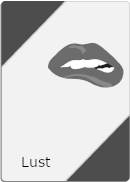
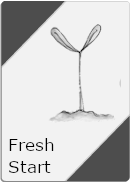
added fresh start, greed affected by DD

Changed region(s): [[0.3692, 0.1374, 0.9538, 0.6868], [0.0615, 0.8516, 0.4, 0.9615], [0.0615, 0.7418, 0.4308, 0.8516]]

diff --git a/Web/ClientApp/src/app/_components/help/help.component.html b/Web/ClientApp/src/app/_components/help/help.component.html
@@ -100,7 +100,7 @@
             <img src="/images/cards/small/5/1/16.png" class="mr-3" />
             <div class="media-body">
               <h5 class="mt-0 mb-1">Discard Wild Cards</h5>
-              At the cost of drawing one card every player will discard all wildcards from their hand.
+              At the cost of drawing one card (not affected by double draw or king's decree) every player will discard all wildcards from their hand.
             </div>
           </li>
           <li class="media my-2">
@@ -114,7 +114,7 @@
             <img src="/images/cards/small/5/1/20.png" class="mr-3" />
             <div class="media-body">
               <h5 class="mt-0 mb-1">Discard Color</h5>
-              At the cost of drawing one card user picks a color. The chosen color should be discarded from all player's current hand.
+              At the cost of drawing one card (not affected by double draw or king's decree) user picks a color . The chosen color should be discarded from all player's current hand.
             </div>
           </li>
           <li class="media my-2">
@@ -174,7 +174,7 @@
             <img src="/images/cards/small/5/1/36.png" class="mr-3" />
             <div class="media-body">
               <h5 class="mt-0 mb-1">Discard Number</h5>
-              At the cost of drawing one card player selects 2 numbers (from 0-9) every player will discard these numbers from their hand,
+              At the cost of drawing one card (not affected by double draw or king's decree) player selects 2 numbers (from 0-9) every player will discard these numbers from their hand,
               regardless the color.
             </div>
           </li>
@@ -243,7 +243,7 @@
             <img src="/images/cards/small/5/1/53.png" class="mr-3" />
             <div class="media-body">
               <h5 class="mt-0 mb-1">Queens's decree</h5>
-              As long as the owner’s number of cards in hand does not exceed 5, the person to the left and right must draw a card if they have a lesser hand on each turn of the owner. If the game
+              As long as the owner’s number of cards in hand does not exceed 5, the person to the left and right must draw one card (not affected by double draw or king's decree) if they have a lesser hand on each turn of the owner. If the game
               consists of 2 players then only the next player will draw a card. Acts as normal wild card if played. Draw is not affected by double draw card.
             </div>
           </li>
@@ -267,7 +267,7 @@
             <div class="media-body">
               <h5 class="mt-0 mb-1">Devil's deal</h5>
               When the card is played, player can choose to activate the effect or not. If yes, all players with only one card remaining (counted the card is played) must draw a card. The owner must
-              draw 2 cards in return, and this card will be moved back to their hand. Acts as normal wild card otherwise. Amount of cards are not affected by double draw.
+              draw 2 cards in return (not affected by double draw or king's decree), and this card will be moved back to their hand. Acts as normal wild card otherwise.
             </div>
           </li>
           <li class="media my-2">
@@ -390,7 +390,8 @@
             <img src="/images/cards/small/5/1/48.png" class="mr-3" />
             <div class="media-body">
               <h5 class="mt-0 mb-1">Silence</h5>
-              All wildcards have no effect for the next 4 moves. Playing another Silence in that interval will stack the effect (+4 turns). Passive wildcards like Last stand, Deflect and KeepMyHand don't work
+              All wildcards have no effect for the next 4 moves. Playing another Silence in that interval will stack the effect (+4 turns). Passive wildcards like Last stand, Deflect and KeepMyHand
+              don't work
               within this period. Effects from special cards also cannot be activated.
             </div>
           </li>
@@ -416,6 +417,14 @@
               <h5 class="mt-0 mb-1">Intervention</h5>
               Players with the least cards in hand (counter after the use), must skip their next turn (get handcuffed) and draw a card. Multiple Interventions can be stacked (one person will skip
               several turns if they have the least cards).
+            </div>
+          </li>
+          <li class="media my-2">
+            <img src="/images/cards/small/5/1/60.png" class="mr-3" />
+            <div class="media-body">
+              <h5 class="mt-0 mb-1">Fresh start</h5>
+              Player can choose to activate the special effect or not. If they activate the special effect of the card, they will discard their whole hand and draw 7 cards (like in the beginning of
+              the game). If they decides not to activate the special effect, he must draw 1 card (not affected by double draw or king's decree). Can be blocked by "keep my hand".
             </div>
           </li>
         </ul>

diff --git a/Web/ClientApp/src/app/_services/play-card.service.ts b/Web/ClientApp/src/app/_services/play-card.service.ts
@@ -137,6 +137,12 @@ export class PlayCardService {
             this._hubService.playCard(cardPlayed.id, pickedColor, null, null, null,null,0,null,null,null,activateEffect);
             return;
           });
+        }else if (cardPlayed.value === CardValue.freshStart) {
+          const specialEffectModal = this._modalService.displayActivateSpecialEffect();
+          specialEffectModal.result.then((activateEffect: boolean) => {
+            this._hubService.playCard(cardPlayed.id, pickedColor, null, null, null,null,0,null,null,null,activateEffect);
+            return;
+          });
         }else if (cardPlayed.value === CardValue.deathSentence) {
           this._modalService.displayActivateSpecialEffect().result.then((activateEffect: boolean) => {
             if(activateEffect){

diff --git a/Web/ClientApp/src/app/_components/change-log/change-log.component.html b/Web/ClientApp/src/app/_components/change-log/change-log.component.html
@@ -15,6 +15,9 @@
           <li>
             Robin hood reveals which cards have been taken.
           </li>
+          <li>
+            Added new card - Fresh start.
+          </li>
         </ul>
       </li>
       <li class="list-group-item">

diff --git a/Web/ClientApp/src/app/_models/enums.ts b/Web/ClientApp/src/app/_models/enums.ts
@@ -77,7 +77,8 @@ export enum CardValue {
   cyclone = 56,
   intervention = 57,
   badgeCollector = 58,
-  greed = 59
+  greed = 59,
+  freshStart = 60
 }
 
 export enum Direction {

diff --git a/GameProcessingService/CardEffectProcessors/AutomaticallyTriggered/Wild/QueensDecreeEffectProcessor.cs b/GameProcessingService/CardEffectProcessors/AutomaticallyTriggered/Wild/QueensDecreeEffectProcessor.cs
@@ -32,12 +32,7 @@ namespace GameProcessingService.CardEffectProcessors.AutomaticallyTriggered.Wild
                         {
                             messageToLog += $"{player.User.Name} auto activated queen's decree. ";
                             messageToLog += $"Next player ({nextPlayer.User.Name}) will draw a card. ";
-                            var kingsDecreeResult = BlockedByKingsDecree(messageToLog, nextPlayer, game);
-                            messageToLog = kingsDecreeResult.MessageToLog;
-                            if (!kingsDecreeResult.ActivatedKingsDecree)
-                            {
-                                _gameManager.DrawCard(game, nextPlayer, 1, false);
-                            }
+                            _gameManager.DrawCard(game, nextPlayer, 1, false);
                         }
                     }
                     else
@@ -51,23 +46,13 @@ namespace GameProcessingService.CardEffectProcessors.AutomaticallyTriggered.Wild
                             if (nextPlayer.Cards.Count < player.Cards.Count)
                             {
                                 messageToLog += $"Next player ({nextPlayer.User.Name}) will draw a card. ";
-                                var kingsDecreeResult = BlockedByKingsDecree(messageToLog, nextPlayer, game);
-                                messageToLog = kingsDecreeResult.MessageToLog;
-                                if (!kingsDecreeResult.ActivatedKingsDecree)
-                                {
-                                    _gameManager.DrawCard(game, nextPlayer, 1, false);
-                                }
+                                _gameManager.DrawCard(game, nextPlayer, 1, false);
                             }
 
                             if (previousPlayer.Cards.Count < player.Cards.Count)
                             {
                                 messageToLog += $"Previous player player ({previousPlayer.User.Name}) will draw a card. ";
-                                var kingsDecreeResult = BlockedByKingsDecree(messageToLog, previousPlayer, game);
-                                messageToLog = kingsDecreeResult.MessageToLog;
-                                if (!kingsDecreeResult.ActivatedKingsDecree)
-                                {
-                                    _gameManager.DrawCard(game, previousPlayer, 1, false);
-                                }
+                                _gameManager.DrawCard(game, previousPlayer, 1, false);
                             }
                         }
                     }
@@ -75,22 +60,6 @@ namespace GameProcessingService.CardEffectProcessors.AutomaticallyTriggered.Wild
             }
 
             return new AutomaticallyTriggeredResult() { MessageToLog = messageToLog };
-        }
-
-        private AutomaticallyTriggeredResult BlockedByKingsDecree(string messageToLog, Player player, Game game)
-        {
-            var activatedKingsDecree = false;
-
-            if (game.SilenceTurnsRemaining <= 0)
-            {
-                if (player.Cards.Count > 4 && player.Cards.FirstOrDefault(x => x.Value == CardValue.KingsDecree) != null)
-                {
-                    activatedKingsDecree = true;
-                    messageToLog += $"{player.User.Name} is not affected by the draw (king's decree).";
-                }
-            }
-
-            return new AutomaticallyTriggeredResult() { MessageToLog = messageToLog, ActivatedKingsDecree = activatedKingsDecree };
         }
     }
 }

diff --git a/GameProcessingService/CardEffectProcessors/Played/Wild/FreshStartEffectProcessor.cs b/GameProcessingService/CardEffectProcessors/Played/Wild/FreshStartEffectProcessor.cs
@@ -1,0 +1,55 @@
+using System.Collections.Generic;
+using System.Linq;
+using Common.Enums;
+using EntityObjects;
+using GameProcessingService.CardEffectProcessors.AutomaticallyTriggered;
+using GameProcessingService.CoreManagers;
+using GameProcessingService.Models;
+
+namespace GameProcessingService.CardEffectProcessors.Played.Wild
+{
+    public class FreshStartEffectProcessor : IPlayedCardEffectProcessor
+    {
+        private readonly IGameManager _gameManager;
+        private readonly IEnumerable<IAutomaticallyTriggeredCardEffectProcessor> _automaticallyTriggeredCardEffectProcessors;
+        public CardValue CardAffected => CardValue.FreshStart;
+
+        public FreshStartEffectProcessor(IGameManager gameManager, IEnumerable<IAutomaticallyTriggeredCardEffectProcessor> automaticallyTriggeredCardEffectProcessors)
+        {
+            _gameManager = gameManager;
+            _automaticallyTriggeredCardEffectProcessors = automaticallyTriggeredCardEffectProcessors;
+        }
+
+        public MoveResult ProcessCardEffect(Game game, MoveParams moveParams)
+        {
+            var messagesToLog = new List<string>();
+            var messageToLog = $"{moveParams.PlayerPlayed.User.Name} played Fresh start. ";
+
+            if (moveParams.ActivateSpecialCardEffect)
+            {
+                messageToLog += "Player activated the special effect. ";
+
+                var automaticallyTriggeredResultKeepMyHand = _automaticallyTriggeredCardEffectProcessors.First(x => x.CardAffected == CardValue.KeepMyHand).ProcessCardEffect(game, messageToLog, new AutomaticallyTriggeredParams() { KeepMyHandParams = new AutomaticallyTriggeredKeepMyHandParams(new List<Player>(){moveParams.PlayerPlayed}, moveParams.TargetedCardColor) });
+                messageToLog = automaticallyTriggeredResultKeepMyHand.MessageToLog;
+
+                automaticallyTriggeredResultKeepMyHand.PlayersWithoutKeepMyHand.ForEach(p =>
+                {
+                    game.DiscardedPile.AddRange(p.Cards.ToList());
+                    p.Cards.Clear();
+                    _gameManager.DrawCard(game, p, 7, false);
+                });
+
+            }
+            else
+            {
+                messageToLog += "Player did not activate the special effect of the card. They will draw 1 card.";
+                _gameManager.DrawCard(game, moveParams.PlayerPlayed, 1, false);
+            }
+
+
+
+            messagesToLog.Add(messageToLog);
+            return new MoveResult(messagesToLog);
+        }
+    }
+}

diff --git a/Web/Hubs/GameHub.cs b/Web/Hubs/GameHub.cs
@@ -802,17 +802,27 @@ namespace Web.Hubs
             {
                 if (game.SilenceTurnsRemaining <= 0)
                 {
-                    var messageToLog = $"{game.PlayerToPlay.User.Name} was affected by greed so they will draw one card. Greed turns remaining: {greedTurns-1}";
-                    await AddToGameLog(game.Id, messageToLog);
+                    var messageToLog = $"{game.PlayerToPlay.User.Name} was affected by greed so they will draw one card. Greed turns remaining: {greedTurns - 1}. ";
 
                     if (game.PlayerToPlay.Cards.Count > 4 && game.PlayerToPlay.Cards.FirstOrDefault(x => x.Value == CardValue.KingsDecree) != null)
                     {
-                        await AddToGameLog(game.Id, $"{game.PlayerToPlay.User.Name} is not affected by the draw (king's decree).");
+                        messageToLog+=$"{game.PlayerToPlay.User.Name} is not affected by the draw (king's decree). ";
                     }
                     else
                     {
-                        _gameManager.DrawCard(game, game.PlayerToPlay, 1, false);
+                        var cardsToDraw = 1;
+                        var doubleDrawCard = game.PlayerToPlay.Cards.FirstOrDefault(c => c.Value == CardValue.DoubleDraw);
+                        if (doubleDrawCard != null)
+                        {
+                            game.LastCardPlayed = new LastCardPlayed(game.LastCardPlayed.Color, doubleDrawCard.Value, doubleDrawCard.ImageUrl, game.PlayerToPlay.User.Name, true, doubleDrawCard);
+                            game.PlayerToPlay.Cards.Remove(doubleDrawCard);
+                            game.DiscardedPile.Add(doubleDrawCard);
+                            messageToLog += $"{game.PlayerToPlay.User.Name} doubled the draw/discard effect. ";
+                            cardsToDraw = 2;
+                        }
+                        _gameManager.DrawCard(game, game.PlayerToPlay, cardsToDraw, false);
                     }
+                    await AddToGameLog(game.Id, messageToLog);
                 }
                 game.GreedAffectedPlayers[game.PlayerToPlay] = greedTurns - 1;
             }

diff --git a/EntityObjects/Cards/Wild/FreshStart.cs b/EntityObjects/Cards/Wild/FreshStart.cs
@@ -6,19 +6,19 @@ using EntityObjects.Cards.Abstraction;
 
 namespace EntityObjects.Cards.Wild
 {
-    public class DiscardColor : ICard
+    public class FreshStart : ICard
     {
-        public DiscardColor(bool limitColorChangingCards)
+        public FreshStart(bool limitColorChangingCards)
         {
             Id = Guid.NewGuid().ToString();
             ImageUrl = $"/images/cards/small/{(int)Color}/{Convert.ToInt32(limitColorChangingCards)}/{(int)Value}.png";
         }
         public string Id { get; }
         public CardColor Color => CardColor.Wild;
-        public CardValue Value => CardValue.DiscardColor;
+        public CardValue Value => CardValue.FreshStart;
         public string ImageUrl { get; }
         public bool RequirePickColor => true;
         public bool RequireTargetPlayer => false;
-        public string Description => "At the cost of drawing one card (not affected by double draw or king's decree) user picks a color. The chosen color should be discarded from all player's current hand.";
+        public string Description => "Player can choose to activate the special effect or not. If they activate the special effect of the card, they will discard their whole hand and draw 7 cards (like in the beginning of the game). If they decides not to activate the special effect, he must draw 1 card (not affected by double draw or king's decree). Can be blocked by \"keep my hand\".";
     }
 }

diff --git a/PreMoveProcessingService/CoreManagers/PlayCardManager.cs b/PreMoveProcessingService/CoreManagers/PlayCardManager.cs
@@ -118,7 +118,17 @@ namespace PreMoveProcessingService.CoreManagers
                     }
                     else
                     {
-                        _gameManager.DrawCard(game, game.PlayerToPlay, 1, false);
+                        var cardsToDraw = 1;
+                        var doubleDrawCard = game.PlayerToPlay.Cards.FirstOrDefault(c => c.Value == CardValue.DoubleDraw);
+                        if (doubleDrawCard != null)
+                        {
+                            game.LastCardPlayed = new LastCardPlayed(game.LastCardPlayed.Color, doubleDrawCard.Value, doubleDrawCard.ImageUrl, game.PlayerToPlay.User.Name, true, doubleDrawCard);
+                            game.PlayerToPlay.Cards.Remove(doubleDrawCard);
+                            game.DiscardedPile.Add(doubleDrawCard);
+                            messageToLog += $"{game.PlayerToPlay.User.Name} doubled the draw/discard effect. ";
+                            cardsToDraw = 2;
+                        }
+                        _gameManager.DrawCard(game, game.PlayerToPlay, cardsToDraw, false);
                     }
                     moveResult.MessagesToLog.Add(messageToLog);
                 }

diff --git a/EntityObjects/Cards/Wild/QueensDecree.cs b/EntityObjects/Cards/Wild/QueensDecree.cs
@@ -17,7 +17,7 @@ namespace EntityObjects.Cards.Wild
         public string ImageUrl { get; }
         public bool RequirePickColor => true;
         public bool RequireTargetPlayer => false;
-        public string Description => "As long as the owner’s number of cards in hand does not exceed 5, the person to the left and right must draw a card if they have a lesser hand on each turn of the owner. If the game consists of 2 players then only the next player will draw a card.Acts as normal wild card if played. Draw is not affected by double draw card.";
+        public string Description => "As long as the owner’s number of cards in hand does not exceed 5, the person to the left and right must draw one card (not affected by double draw or king's decree) if they have a lesser hand on each turn of the owner. If the game consists of 2 players then only the next player will draw a card.Acts as normal wild card if played. Draw is not affected by double draw card.";
 
     }
 }

diff --git a/EntityObjects/Cards/Wild/DiscardNumber.cs b/EntityObjects/Cards/Wild/DiscardNumber.cs
@@ -20,7 +20,7 @@ namespace EntityObjects.Cards.Wild
         public string ImageUrl { get; }
         public bool RequirePickColor { get; }
         public bool RequireTargetPlayer => false;
-        public string Description => "At the cost of drawing one card player selects 2 numbers (from 0-9) every player will discard these numbers from their hand, regardless the color.";
+        public string Description => "At the cost of drawing one card (not affected by double draw or king's decree) player selects 2 numbers (from 0-9) every player will discard these numbers from their hand, regardless the color.";
 
     }
 }

diff --git a/EntityObjects/Cards/Wild/BadgeCollector.cs b/EntityObjects/Cards/Wild/BadgeCollector.cs
@@ -16,7 +16,7 @@ namespace EntityObjects.Cards.Wild
         public CardValue Value => CardValue.BadgeCollector;
         public string ImageUrl { get; }
         public bool RequirePickColor => true;
-        public bool RequireTargetPlayer => true;
+        public bool RequireTargetPlayer => false;
         public string Description => "When you have a complete set of color (1 card for each color), you can discard all 4 along with this card all in one turn and draw 2 cards instead. If you have multiple cards with the same color, one will be randomly selected.. Acts as normal wild otherwise.";
 
     }
